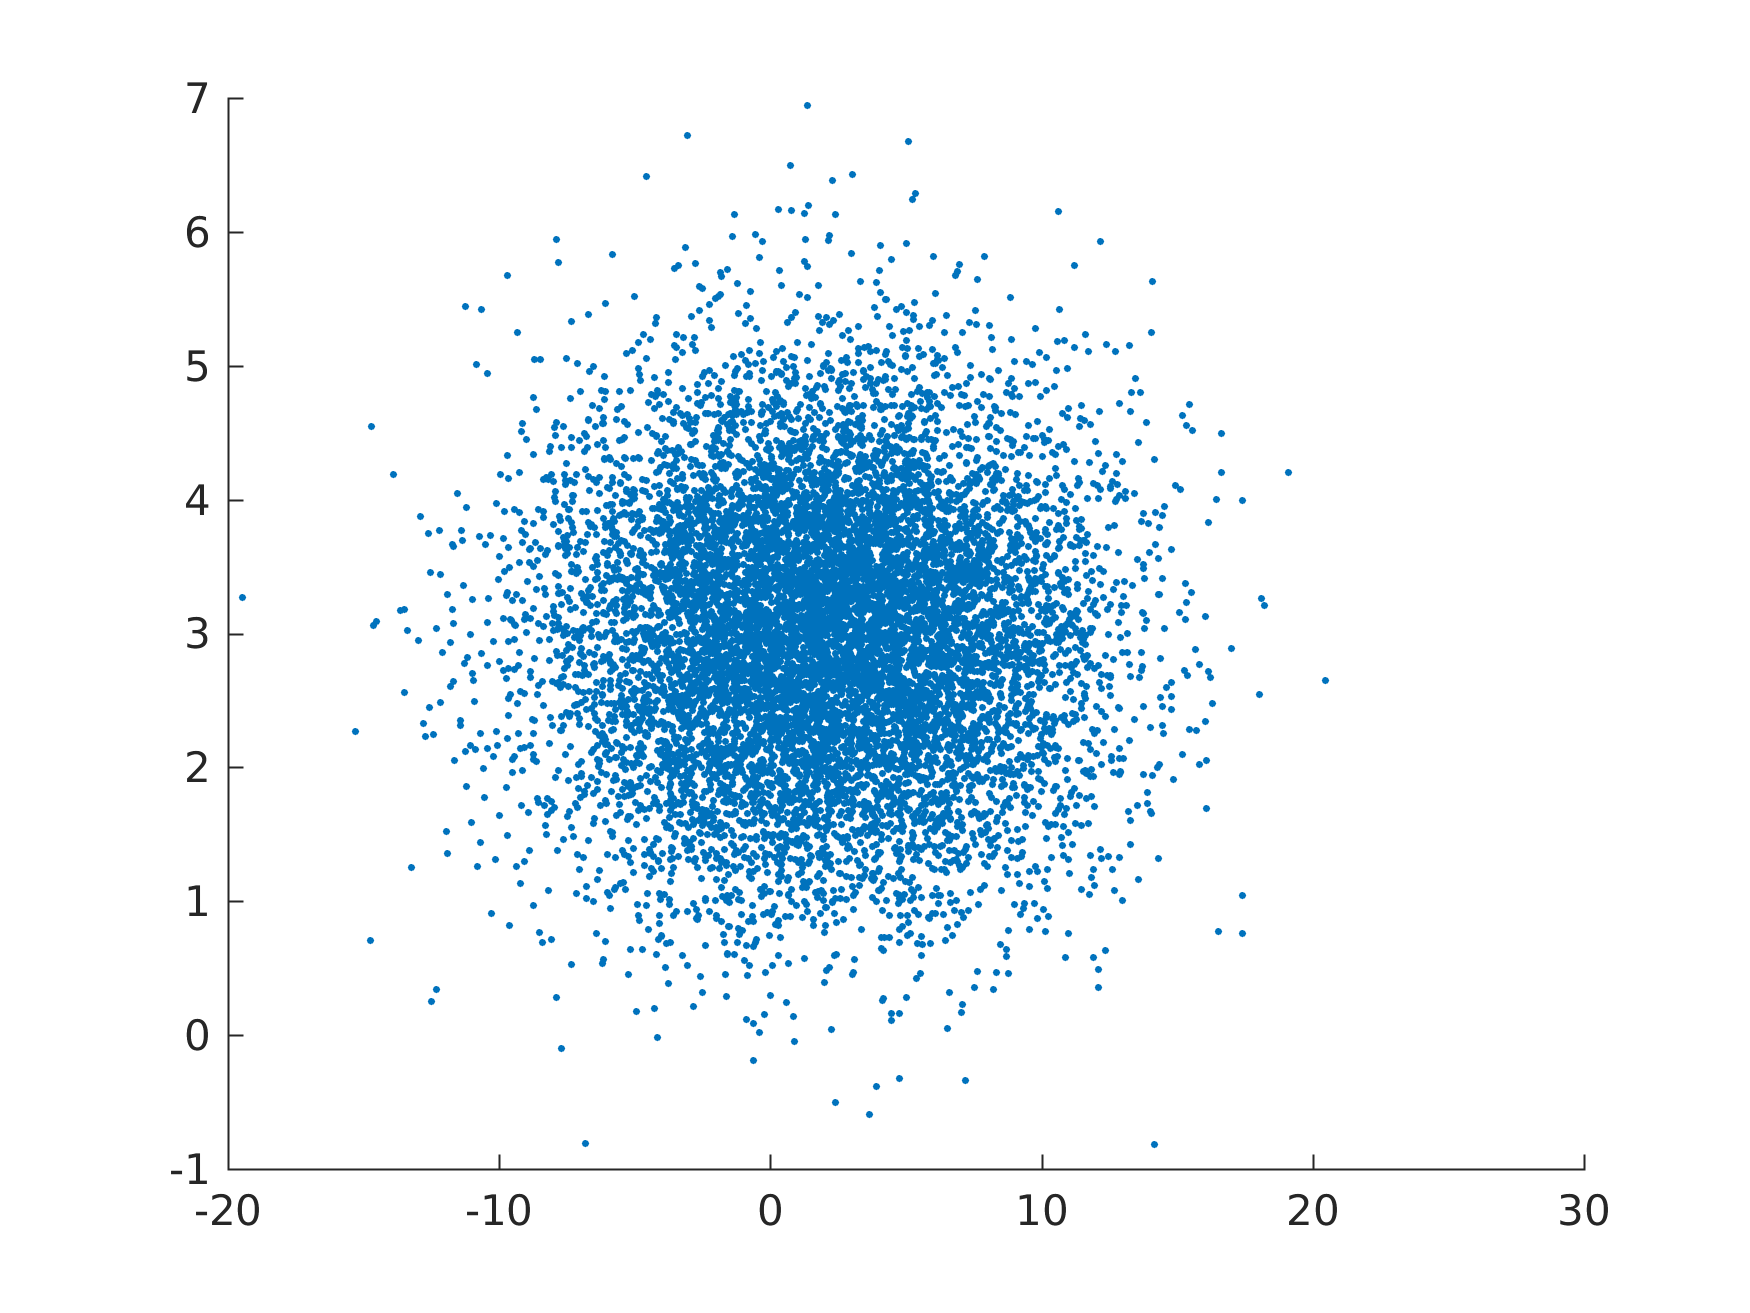
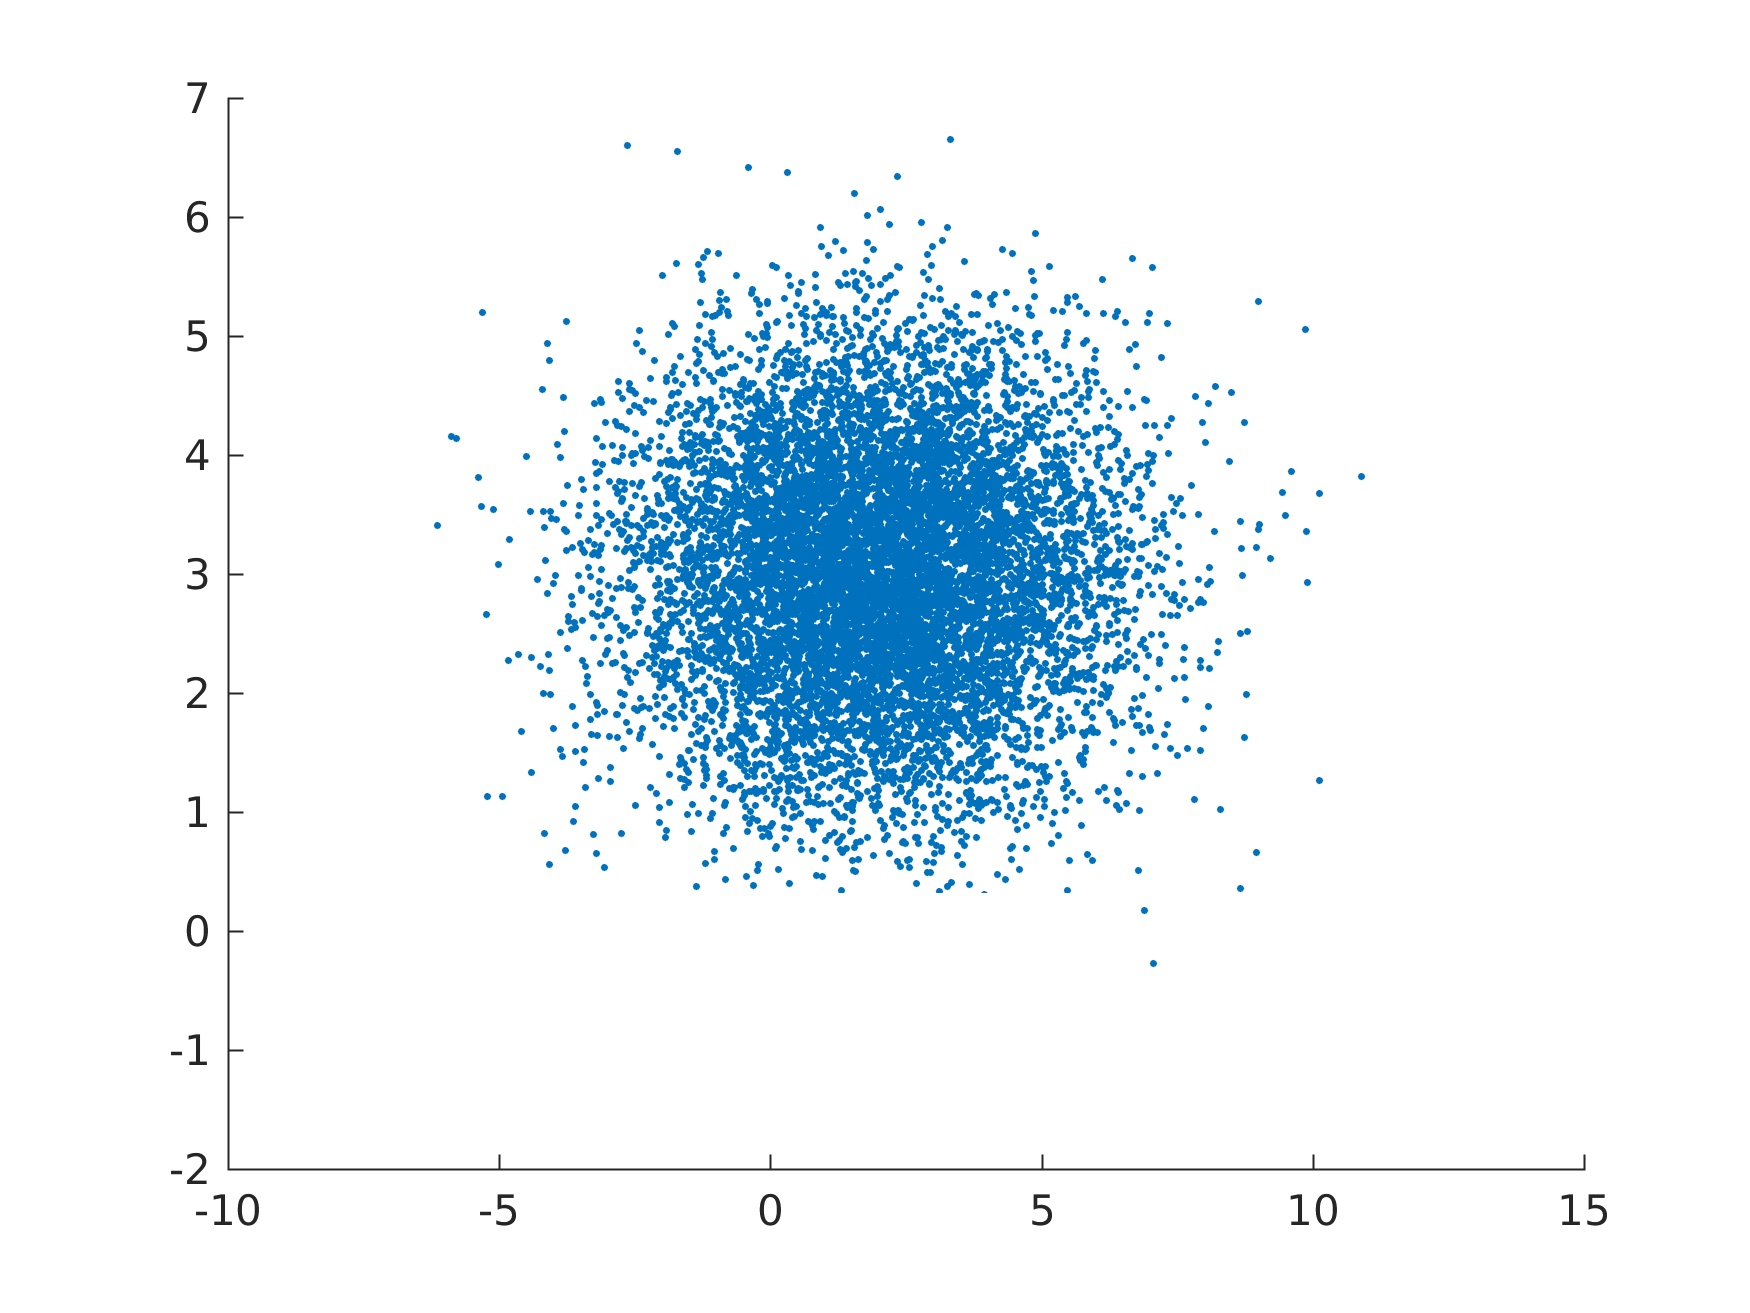
Zadania 0 i 1 z Listy 1 zrobione

diff --git a/Data Exploration/Lista1/zad1.m b/Data Exploration/Lista1/zad1.m
@@ -54,9 +54,9 @@ close;
 
 %%%%%%%%% C %%%%%%%%%
 mu1 = 2;
-sigma1 = 5;
+sigma1 = sqrt(5);
 mu2 = 3;
-sigma2 = 1;
+sigma2 = sqrt(1);
 
 randXMaly = normrnd(mu1, sigma1, 1, malo);
 randYMaly = normrnd(mu2, sigma2, 1, malo);
@@ -78,5 +78,19 @@ print('-dpng', '-r300', 'pairs2.png');
 close;
 
 %%%%%%%%% D %%%%%%%%%
-sign(randYMaly - randXMaly) * ones(malo, 1) / malo
-sign(randYDuzy - randXDuzy) * ones(duzo, 1) / duzo
+
+%%%%% STATYSTYKA Z POPRZEDNIEGO PODPUNKTU
+disp('Prawdopodobienstwo dla 10^4:')
+max(0, sign(randYMaly - randXMaly)) * ones(malo, 1) / malo
+disp('Prawdopodobienstwo dla 10^5:')
+max(0, sign(randYDuzy - randXDuzy)) * ones(duzo, 1) / duzo
+
+%%%%% NORMALNE LICZENIE
+%X ~ N(mu1, sigma1^2)
+%Y ~ N(mu2, sigma2^2)
+%X - Y ~ N(mu1 - mu2, sigma1^2 + (-sigma2)^2)
+%P(X - Y < 0) = F(X - Y, 0)
+mu3 = mu1 - mu2;
+sigma3 = sqrt(sigma1^2 + (-sigma2)^2);
+disp('Prawdopodobienstwo wyliczone normalnie:')
+normcdf(0, mu3, sigma3)
